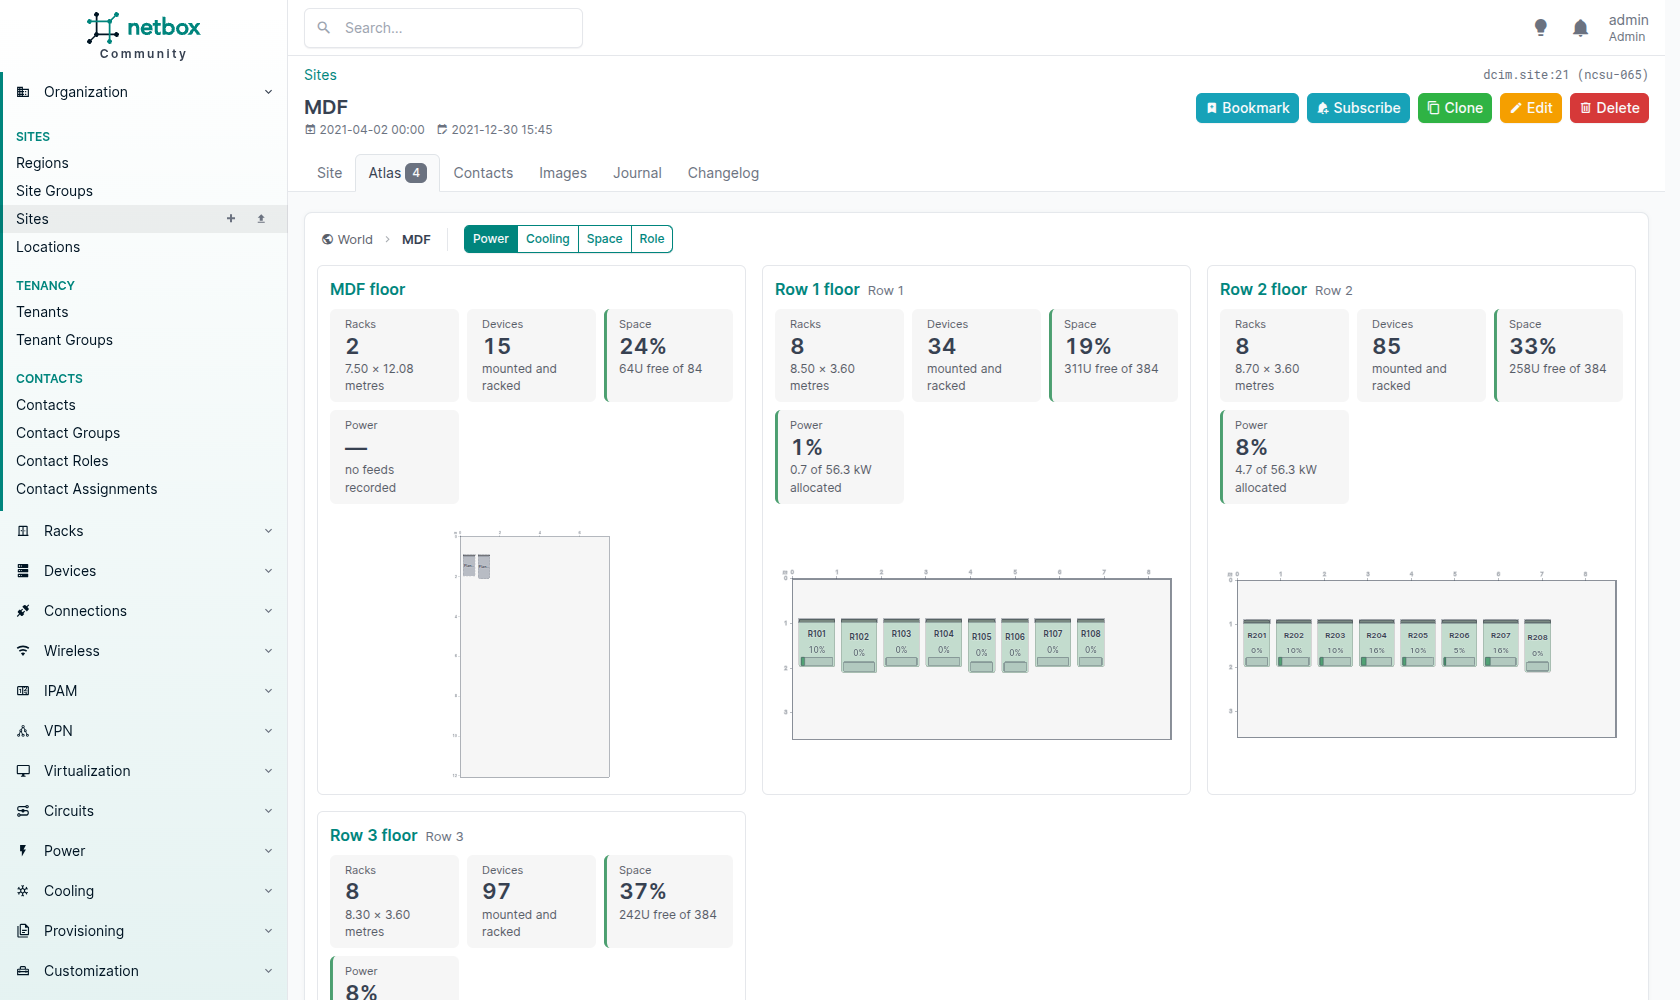
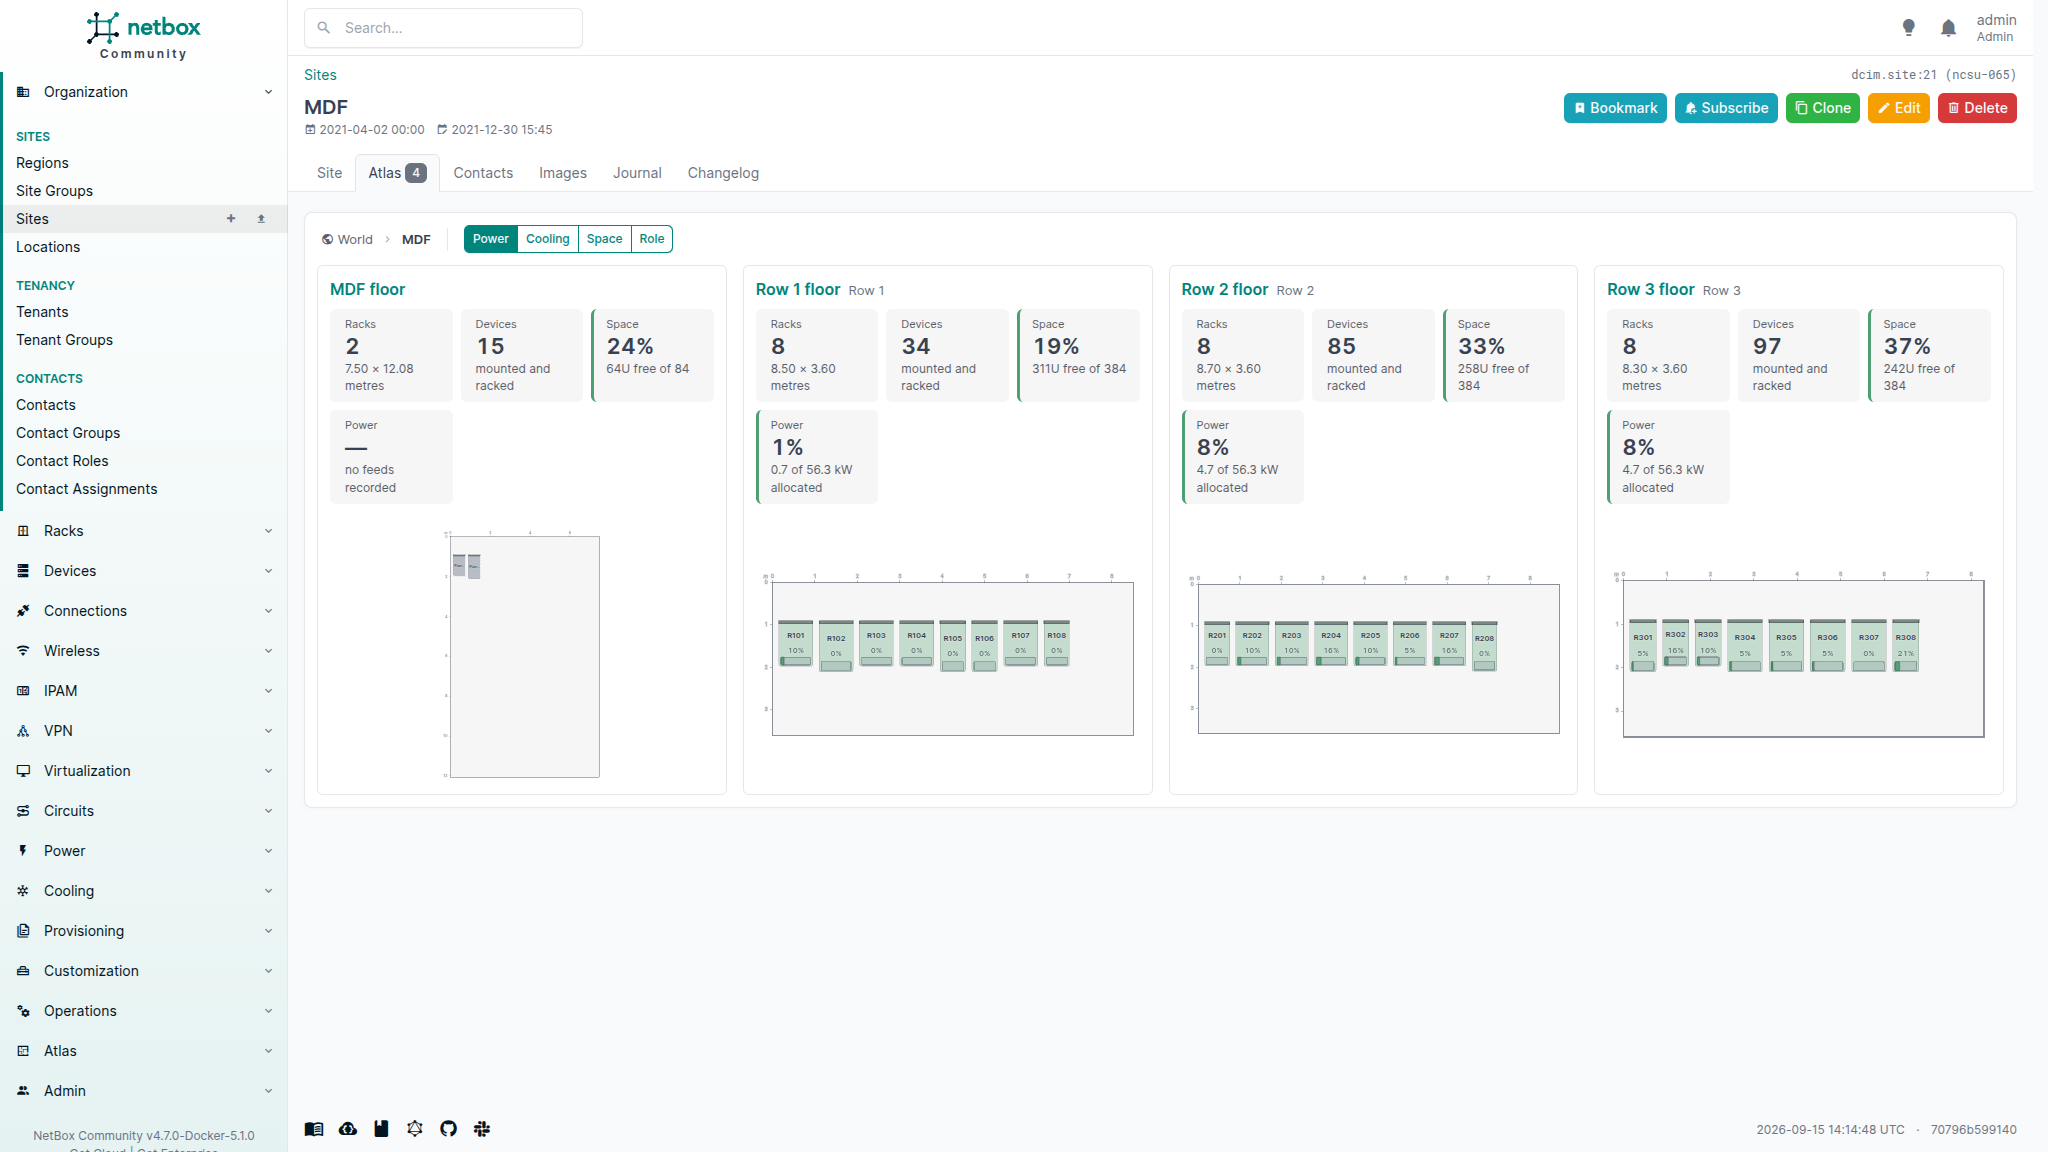
retake the readme site capture at 27-inch width, with every room side by side

diff --git a/CHANGELOG.md b/CHANGELOG.md
@@ -2,7 +2,7 @@
 
 ## Unreleased
 
-- **Docs:** the README's floor section shows the 3D Devices view instead of the 2D plan.
+- **Docs:** the README's floor section shows the 3D Devices view instead of the 2D plan, and its site section shows all the rooms of a site side by side, as on a 27-inch screen.
 
 ## v0.2.0 (2026-09-15)
 
